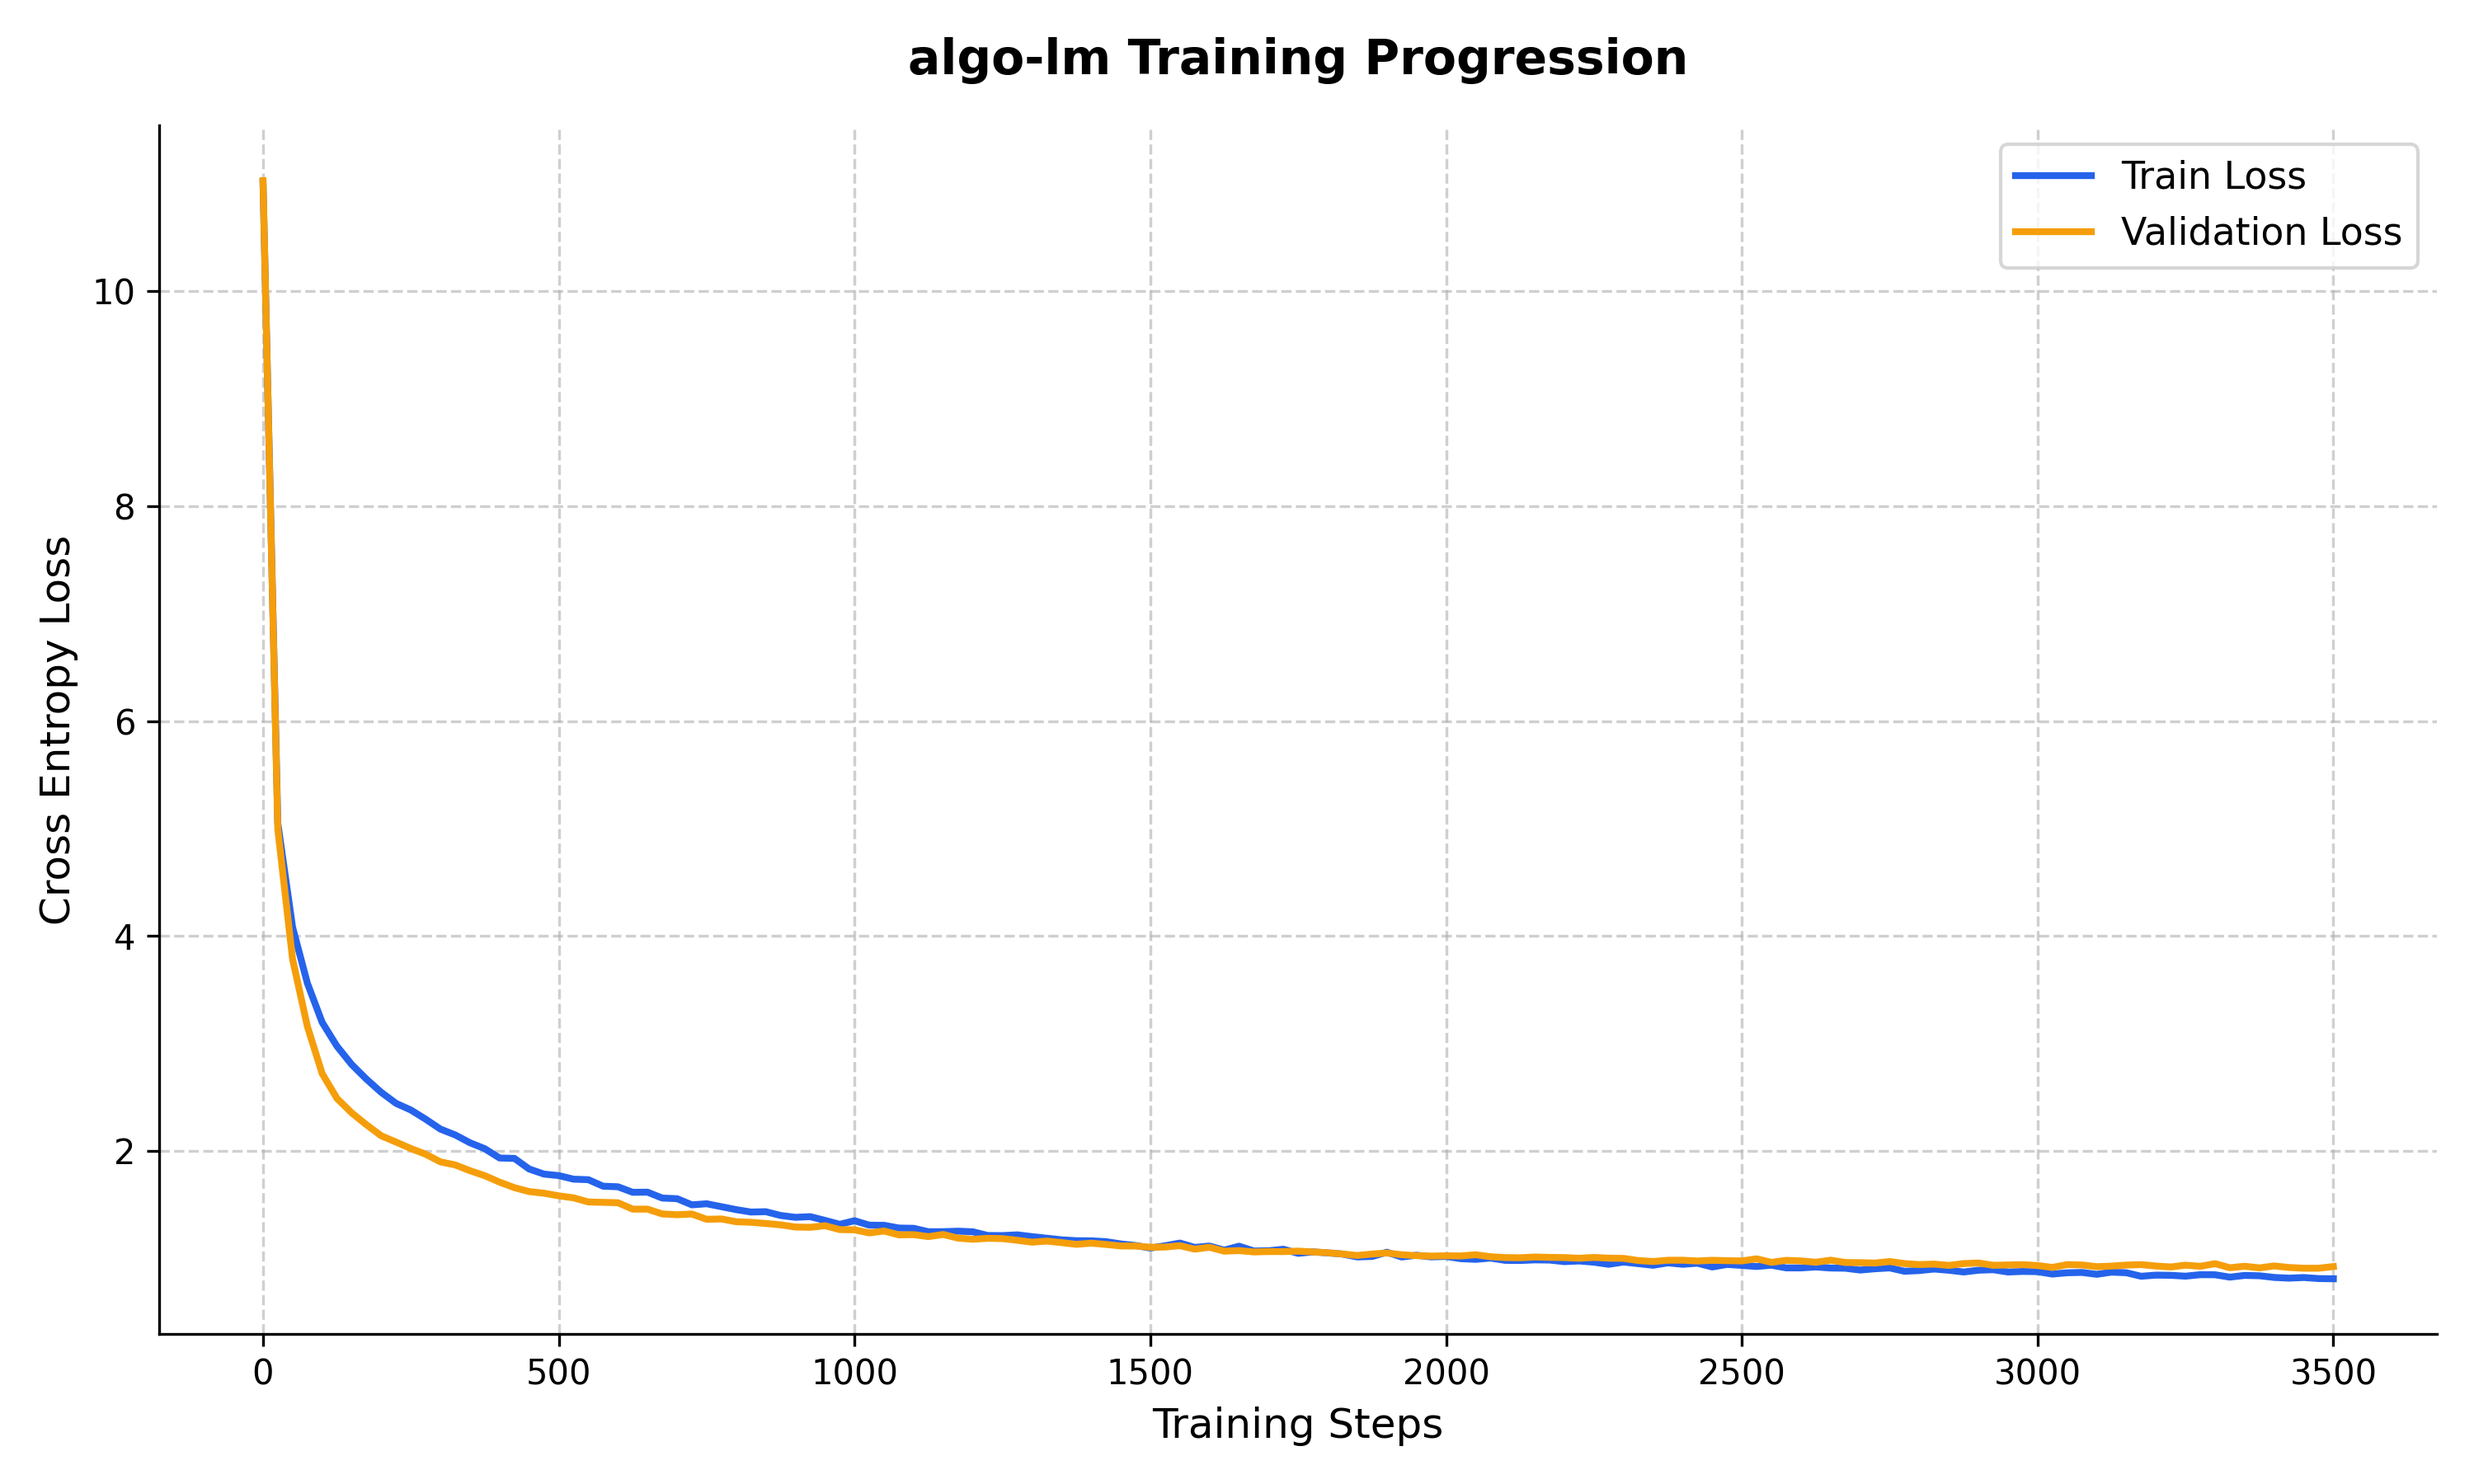
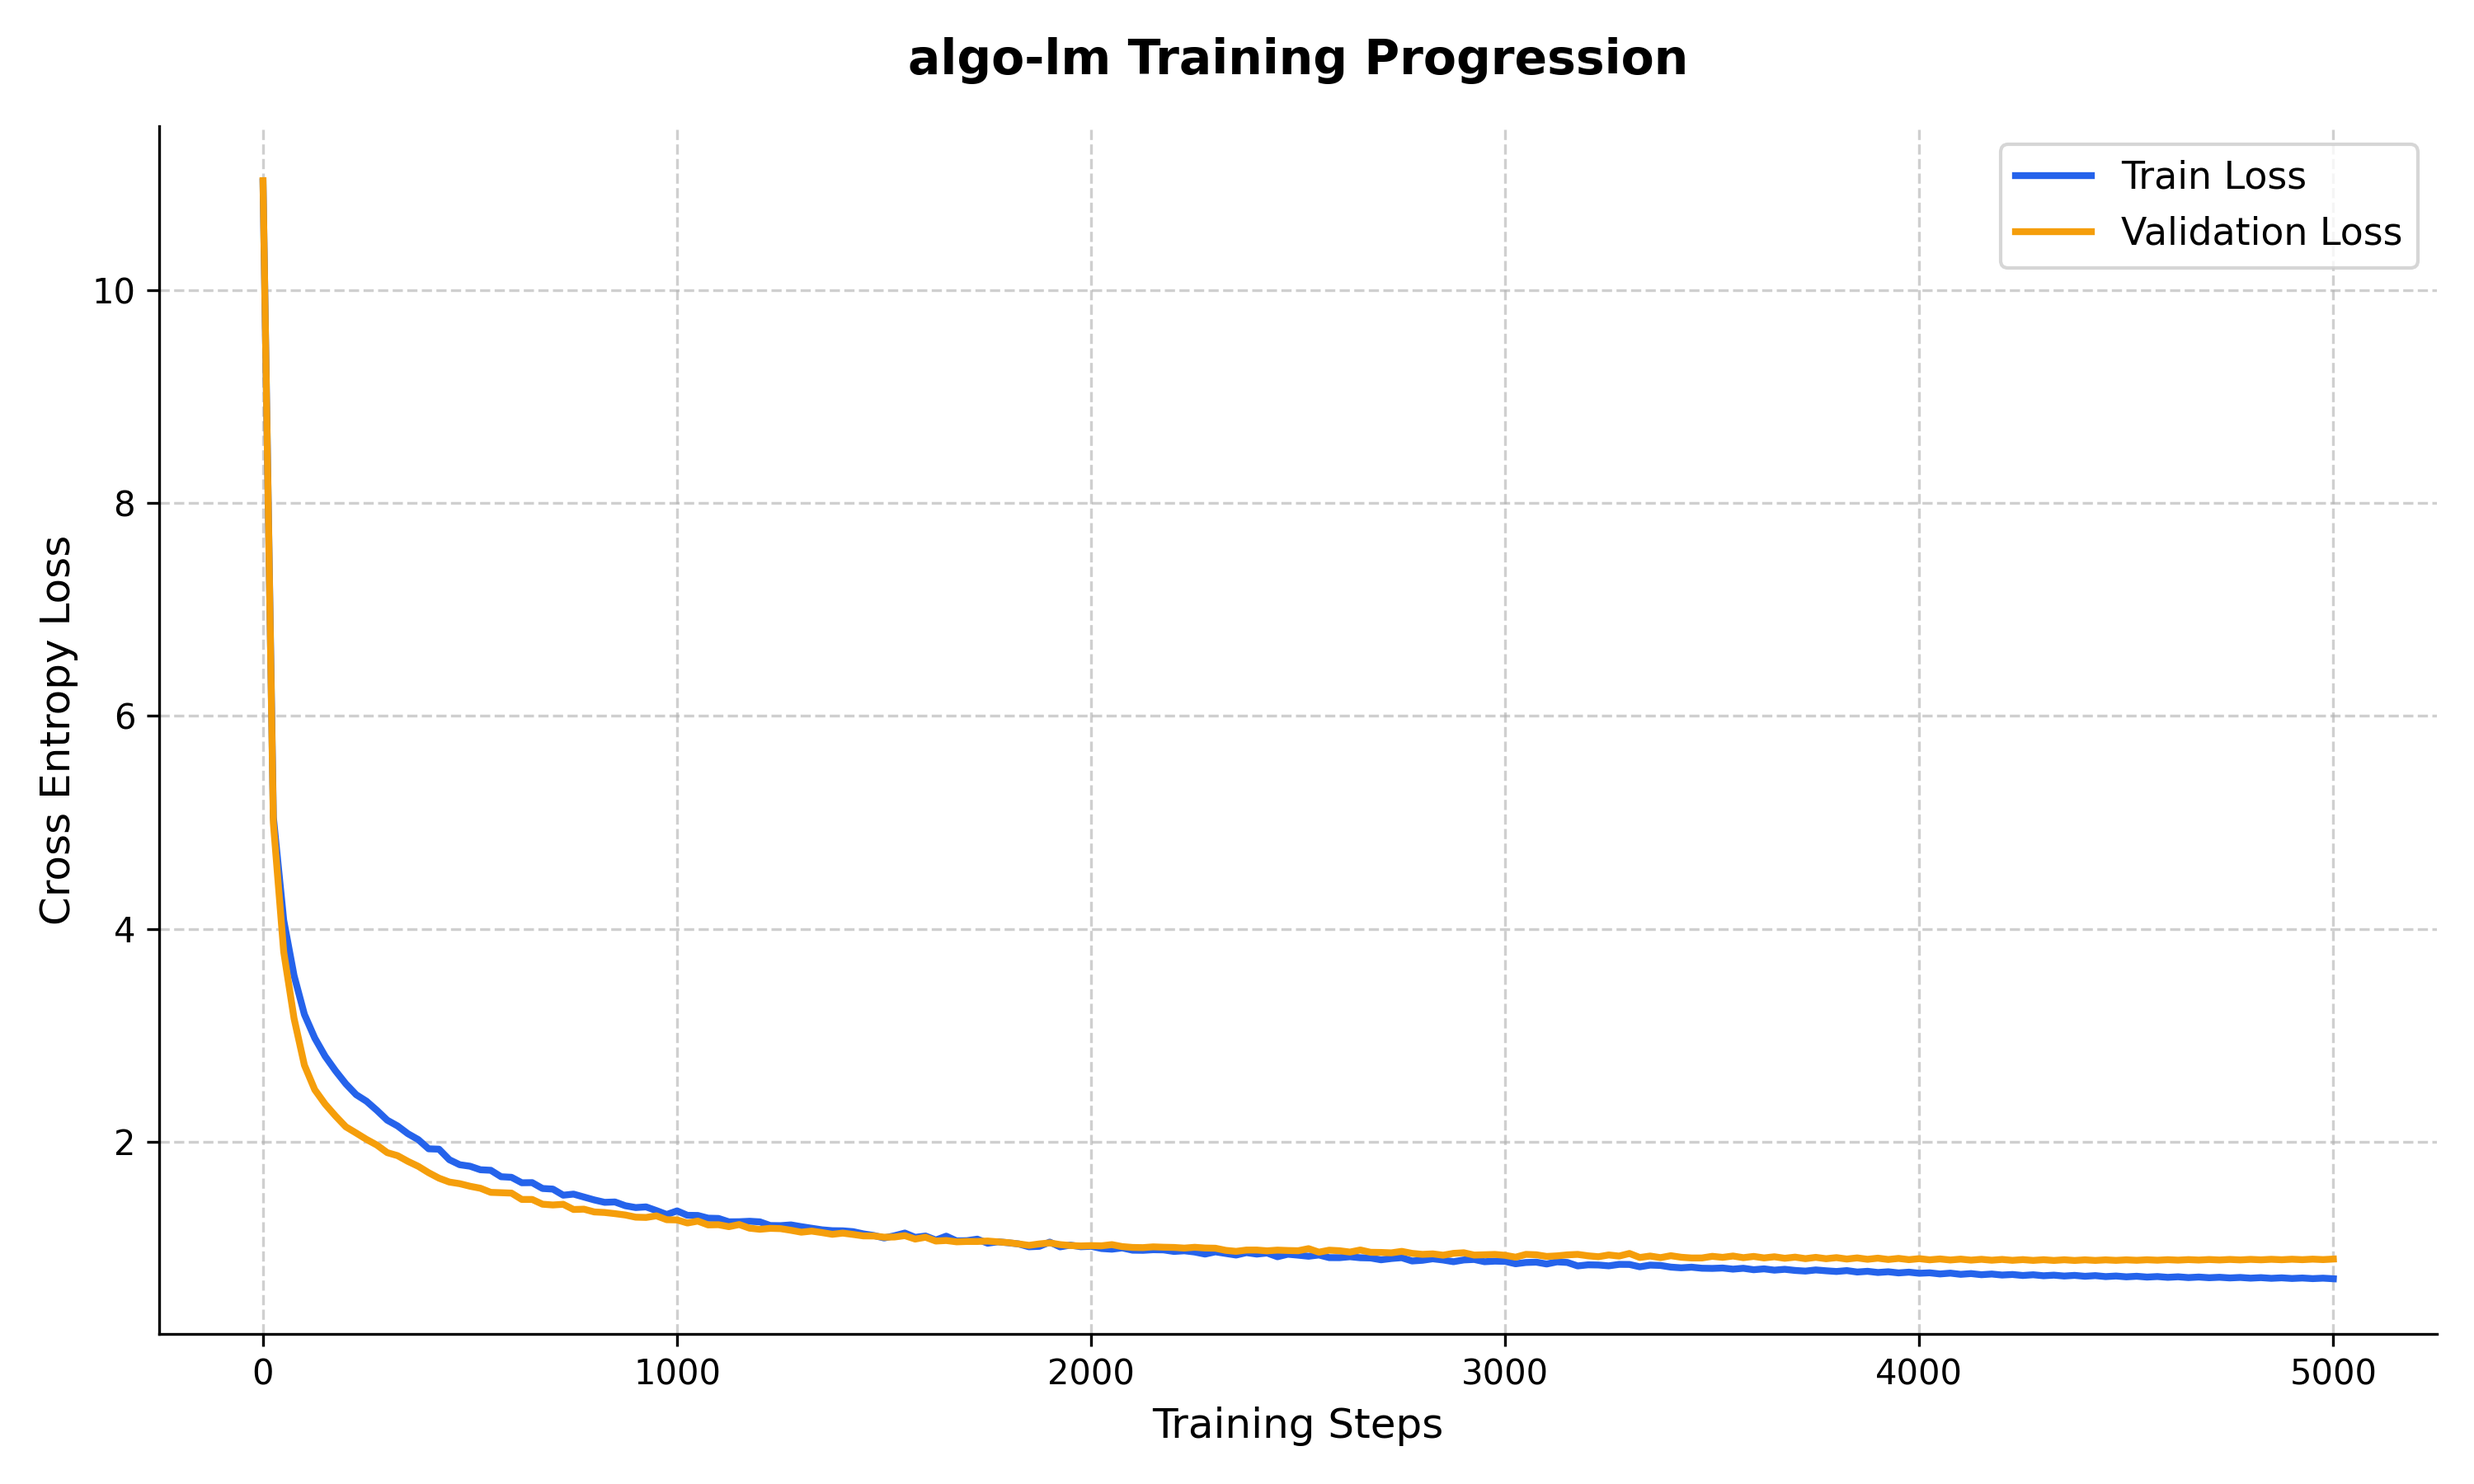
refactor(eval): modularize eval and fill loss.json from 3500 to 5000

diff --git a/eval/evaluation.py b/eval/evaluation.py
@@ -1,7 +1,9 @@
+import os
 import json
 import matplotlib.pyplot as plt
 
-def plot_loss_curve(log_file='loss_history_colab.json'):
+file = os.path.join(os.path.dirname(__file__), 'loss_history_colab.json')
+def plot_loss_curve(log_file=file):
     try:
         # 1. Load the recorded history
         with open(log_file, 'r') as f:
@@ -36,7 +38,7 @@ def plot_loss_curve(log_file='loss_history_colab.json'):
     
     # 5. Save the image and display it
     plt.tight_layout()
-    plt.savefig('loss_curve.png', dpi=300)
+    plt.savefig(os.path.join(os.path.dirname(__file__), 'loss_curve.png'), dpi=300)
     print("Success! Graph saved to your folder as 'loss_curve.png'")
     
     # Opens a window showing the graph (close the window to end the script)
